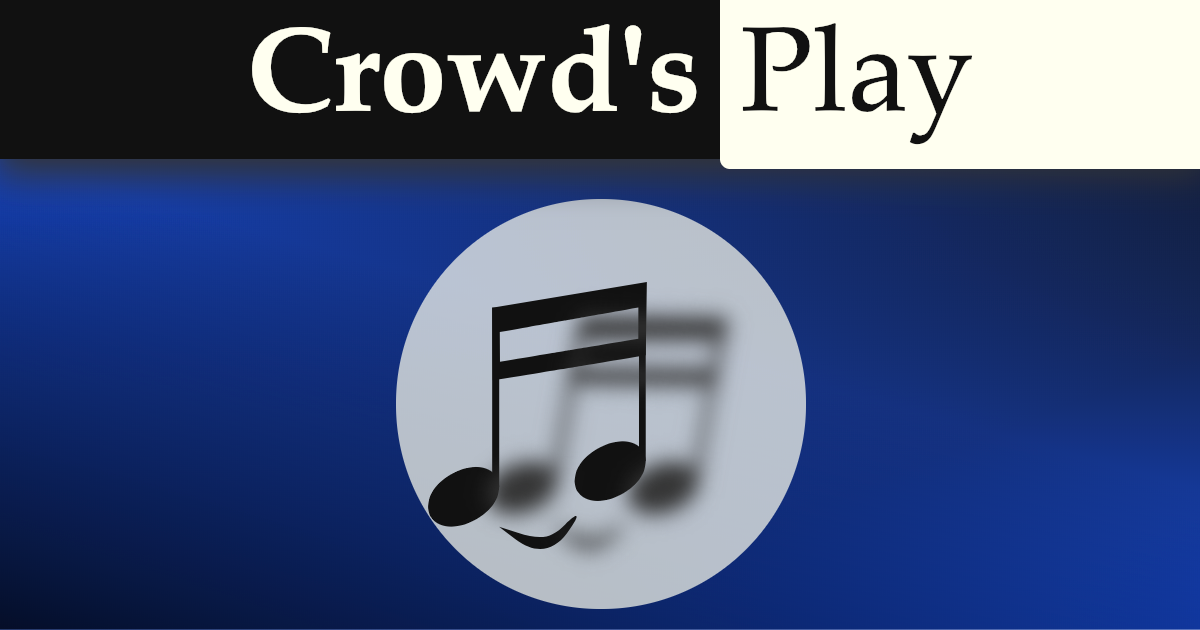
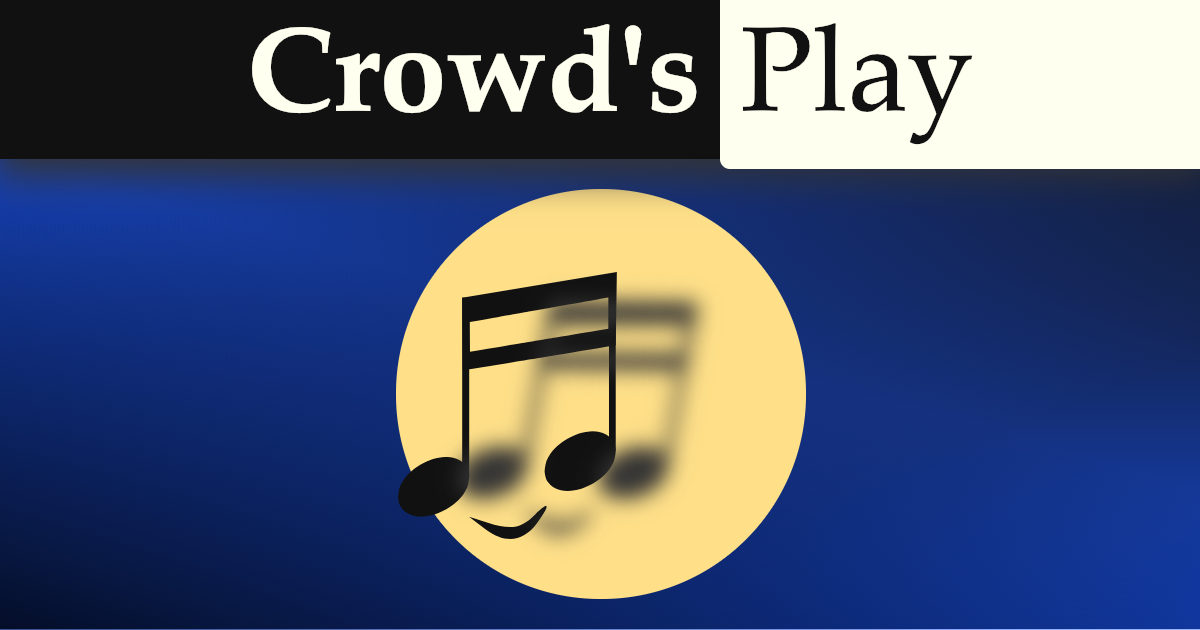
Improved Spotlight

Changed region(s): [[0.3083, 0.3016, 0.6783, 0.9651], [0.0, 0.9952, 1.0, 1.0]]

diff --git a/components/icons/Spotlight.js b/components/icons/Spotlight.js
@@ -2,7 +2,6 @@ import React, { Component } from 'react'
 
 import MrJingles from './Happy'
 
-import alpha from '../../helpers/alpha'
 import colors from '../../styles/colors'
 
 class Spotlight extends Component {
@@ -13,7 +12,7 @@ class Spotlight extends Component {
           .jingles {
             max-height: 150px;
             z-index: 2;
-            transform: translate(-20px, 10px);
+            transform: translate(-35px, 10px);
             color: ${colors.text};
           }
           .jingles-shadow {
@@ -22,7 +21,7 @@ class Spotlight extends Component {
             position: absolute;
             left: 35px;
             top: 35px;
-            transform: skew(-10deg, 10deg) translate(-20px, 10px);
+            transform: skew(-10deg, 10deg) translate(-35px, 10px);
             filter: blur(5px);
             z-index: 2;
           }
@@ -31,7 +30,7 @@ class Spotlight extends Component {
           .spotlight {
             grid-area: face;
             position: relative;
-            background: ${alpha(colors.textBg, colors.opacity)};
+            background: ${colors.spotlight};
             border-radius: 205px;
             width: 205px;
             height: 205px;

diff --git a/components/App.js b/components/App.js
@@ -804,11 +804,6 @@ class App extends Component {
               <ol ref={droppableProvided.innerRef} key='playingNow-droppable'>
                 <li className='emptyDropZone' key='playingNow-emptyDropZone'>
                   <Spotlight />
-                  {/* <img
-                    src='/static/ogImage.png'
-                    alt={this.dict.get('header.tagline')}
-                    title={this.dict.get('queue.playingNow.emptyZone')}
-                  /> */}
                 </li>
                 {droppableProvided.placeholder}
               </ol>
@@ -1007,6 +1002,9 @@ class App extends Component {
                 height: 60px;
                 border-radius: 0;
               }
+            }
+            .emptyDropZone {
+              padding: 20px;
             }
           }
 

diff --git a/styles/colors.js b/styles/colors.js
@@ -23,6 +23,8 @@ export const dangerousText = 'darkred'
 
 export const warnBg = '#ffffcc'
 
+export const spotlight = '#ffe089'
+
 // Order considered "important" because it's used in /branding for showcasing color palette
 export default {
   opacity,
@@ -42,5 +44,6 @@ export default {
   attendingBg,
   dangerousBg,
   dangerousText,
-  warnBg
+  warnBg,
+  spotlight
 }

diff --git a/components/OgImg.js b/components/OgImg.js
@@ -80,6 +80,7 @@ class OgImg extends Component {
               background: ${colors.text} url("/static/bg.svg") no-repeat top left;
               background-size: 100% 100%;
               z-index: 1;
+              padding: 15px;
             }
           }
         `}</style>
